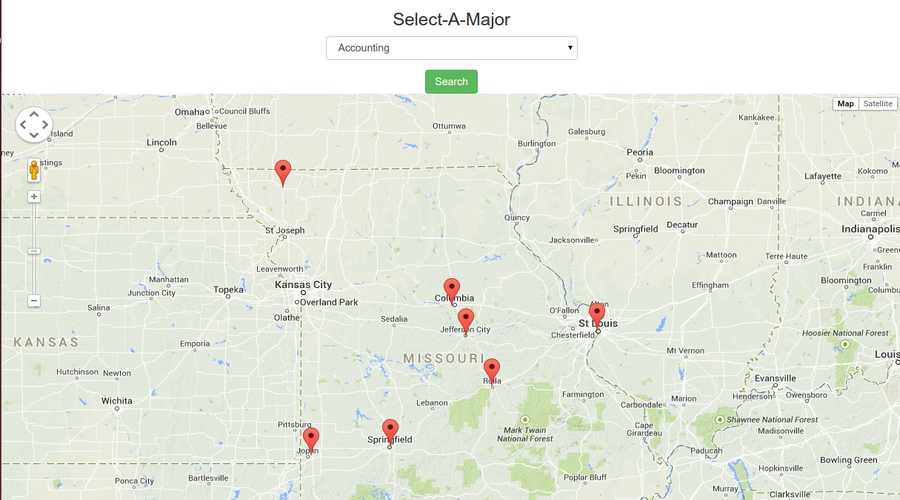
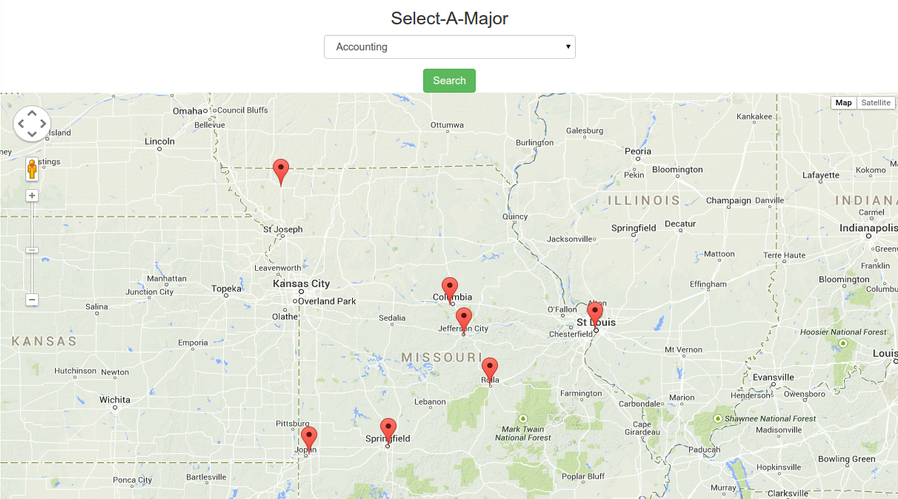
Finished functionality for projects page. Only content left

diff --git a/projects.html b/projects.html
@@ -123,11 +123,11 @@
       </a>
     </div>
 
-    <div style="border:1px solid;padding:10px 10px 10px 10px;border-color:#d2d2d2;margin:10px;">
+    <div style="border:1px solid;padding:10px 10px 10px 10px;border-color:#d2d2d2;margin:10px auto 10px auto;width:900px;">
       <div class="media">
         <div class="media-left">
           <a href="http://web.missouri.edu/djhybf/selectamajor">
-            <img class="media-object" src="images/selectamajormedia.png" alt="Select-A-Major">
+            <img class="media-object" src="images/media/selectamajormedia.png" alt="Select-A-Major">
           </a>
         </div>
         <div class="media-body">
@@ -140,7 +140,7 @@
       <div class="media">
         <div class="media-left">
           <a href="https://play.google.com/store/apps/details?id=com.hansonsoftware.minecraftify&hl=en">
-            <img class="media-object" src="images/minecraftifymedia.png" alt="Minecraftify">
+            <img class="media-object" src="images/media/minecraftifymedia.png" alt="Minecraftify">
           </a>
         </div>
         <div class="media-body">
@@ -153,13 +153,31 @@
       <div class="media">
         <div class="media-left">
           <a href="https://play.google.com/store/apps/details?id=com.hansonsoftware.survivecollegecalculus&hl=en">
-            <img class="media-object" src="images/survivecalculusmedia.png" alt="Survive Calculus">
+            <img class="media-object" src="images/media/survivecalculusmedia.png" alt="Survive Calculus">
           </a>
         </div>
         <div class="media-body">
            <a href="https://play.google.com/store/apps/details?id=com.hansonsoftware.survivecollegecalculus&hl=en">
              <h4 class="media-heading">Survive Calculus</h4>
            </a>
+           <p>Cras sit amet nibh libero, in gravida nulla. Nulla vel metus scelerisque ante sollicitudin commodo. Cras purus odio, vestibulum in vulputate at, tempus viverra turpis. Fusce condimentum nunc ac nisi vulputate fringilla. Donec lacinia congue felis in faucibus.</p>
+        </div>
+      </div>
+      <div class="media">
+        <div class="media-left">
+          <img class="media-object" src="images/media/atozoomedia.png" alt="A to Zoo">
+        </div>
+        <div class="media-body">
+           <h4 class="media-heading">A to Zoo</h4>
+           <p>Cras sit amet nibh libero, in gravida nulla. Nulla vel metus scelerisque ante sollicitudin commodo. Cras purus odio, vestibulum in vulputate at, tempus viverra turpis. Fusce condimentum nunc ac nisi vulputate fringilla. Donec lacinia congue felis in faucibus.</p>
+        </div>
+      </div>
+      <div class="media">
+        <div class="media-left">
+          <img class="media-object" src="images/media/commandlinemedia.png" alt="LearnLisp">
+        </div>
+        <div class="media-body">
+           <h4 class="media-heading">LearnLisp</h4>
            <p>Cras sit amet nibh libero, in gravida nulla. Nulla vel metus scelerisque ante sollicitudin commodo. Cras purus odio, vestibulum in vulputate at, tempus viverra turpis. Fusce condimentum nunc ac nisi vulputate fringilla. Donec lacinia congue felis in faucibus.</p>
         </div>
       </div>
